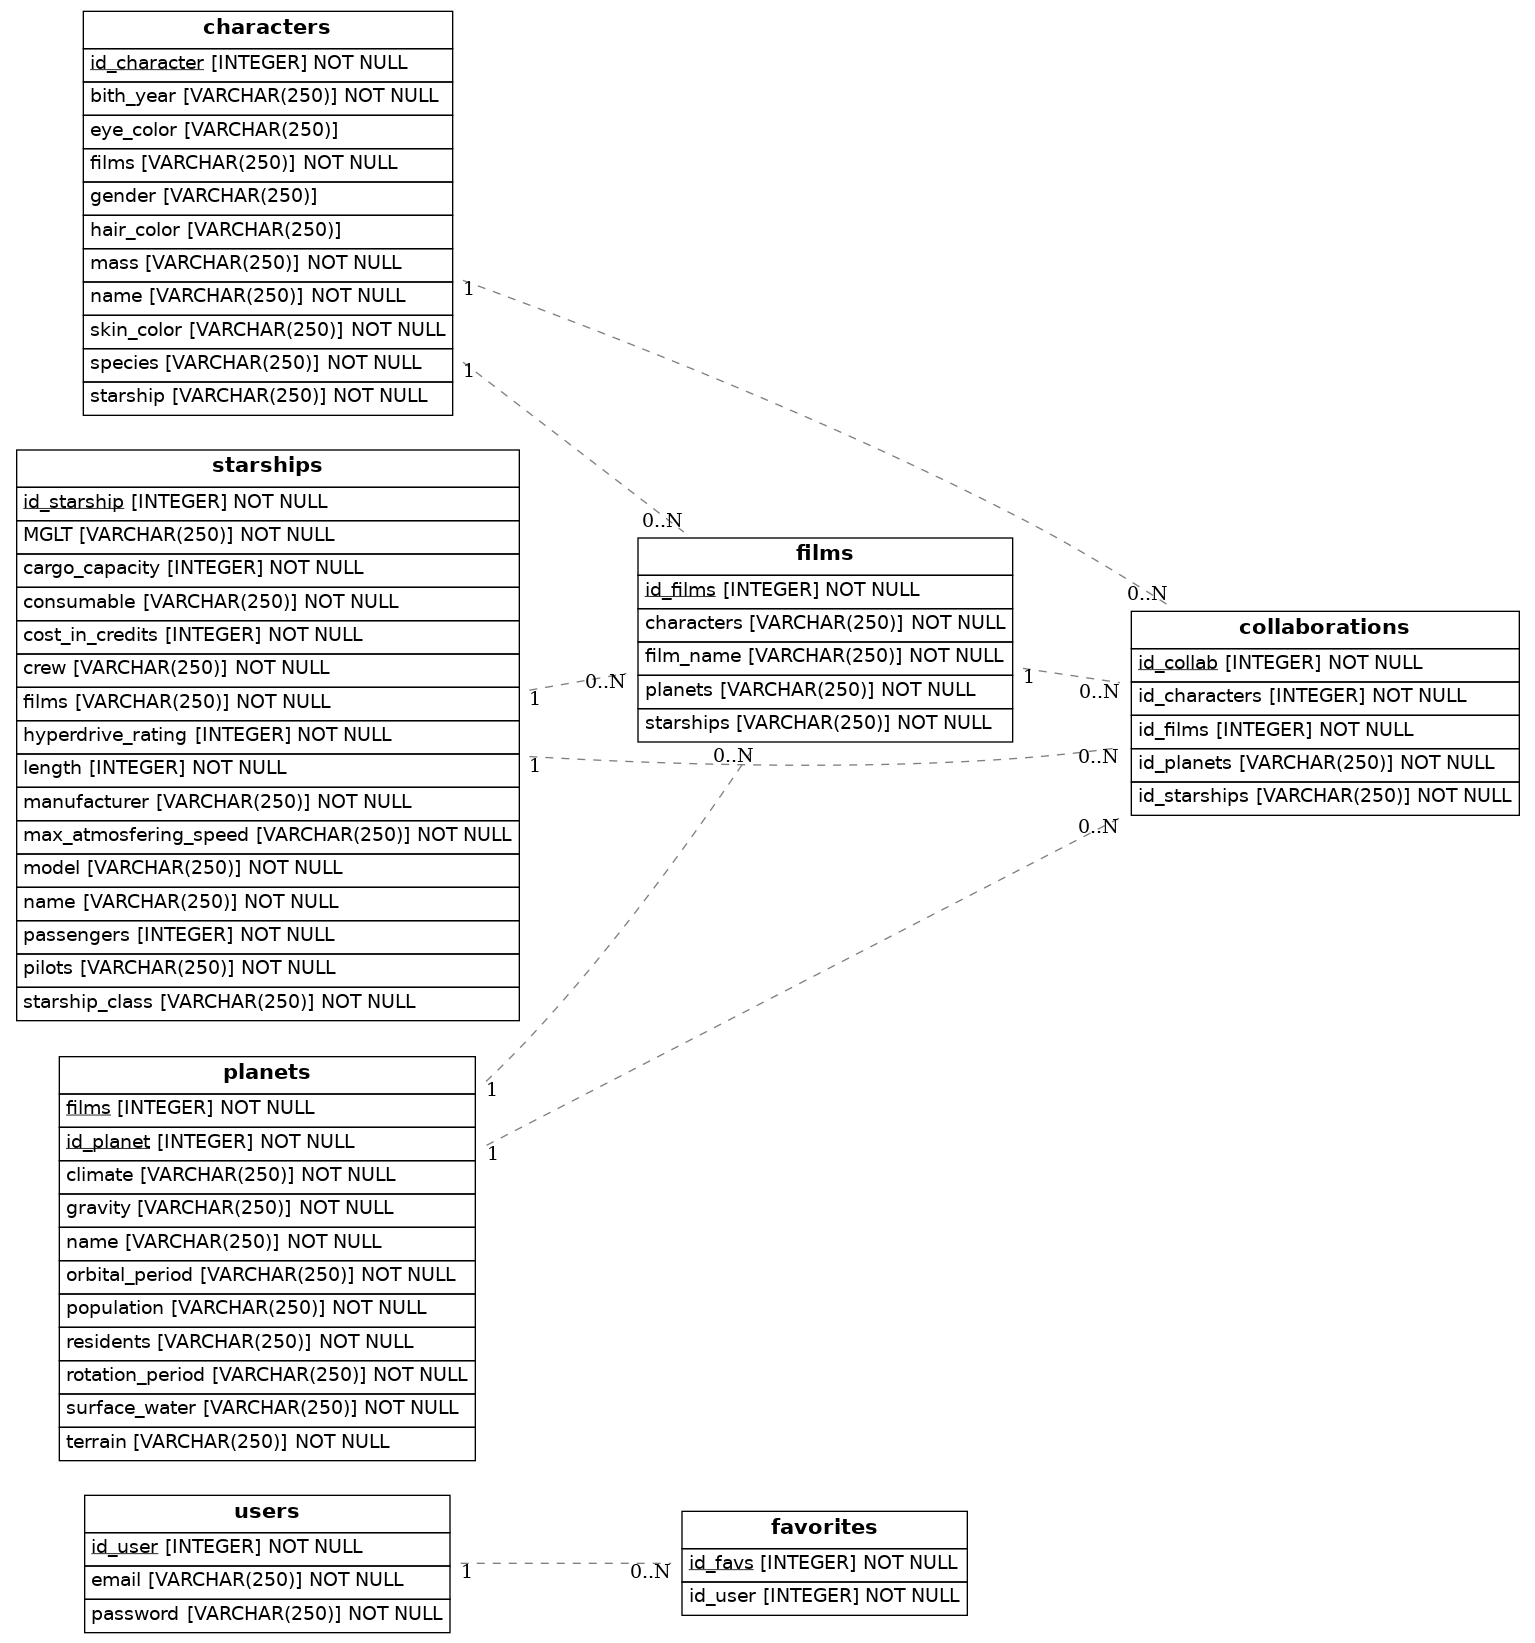
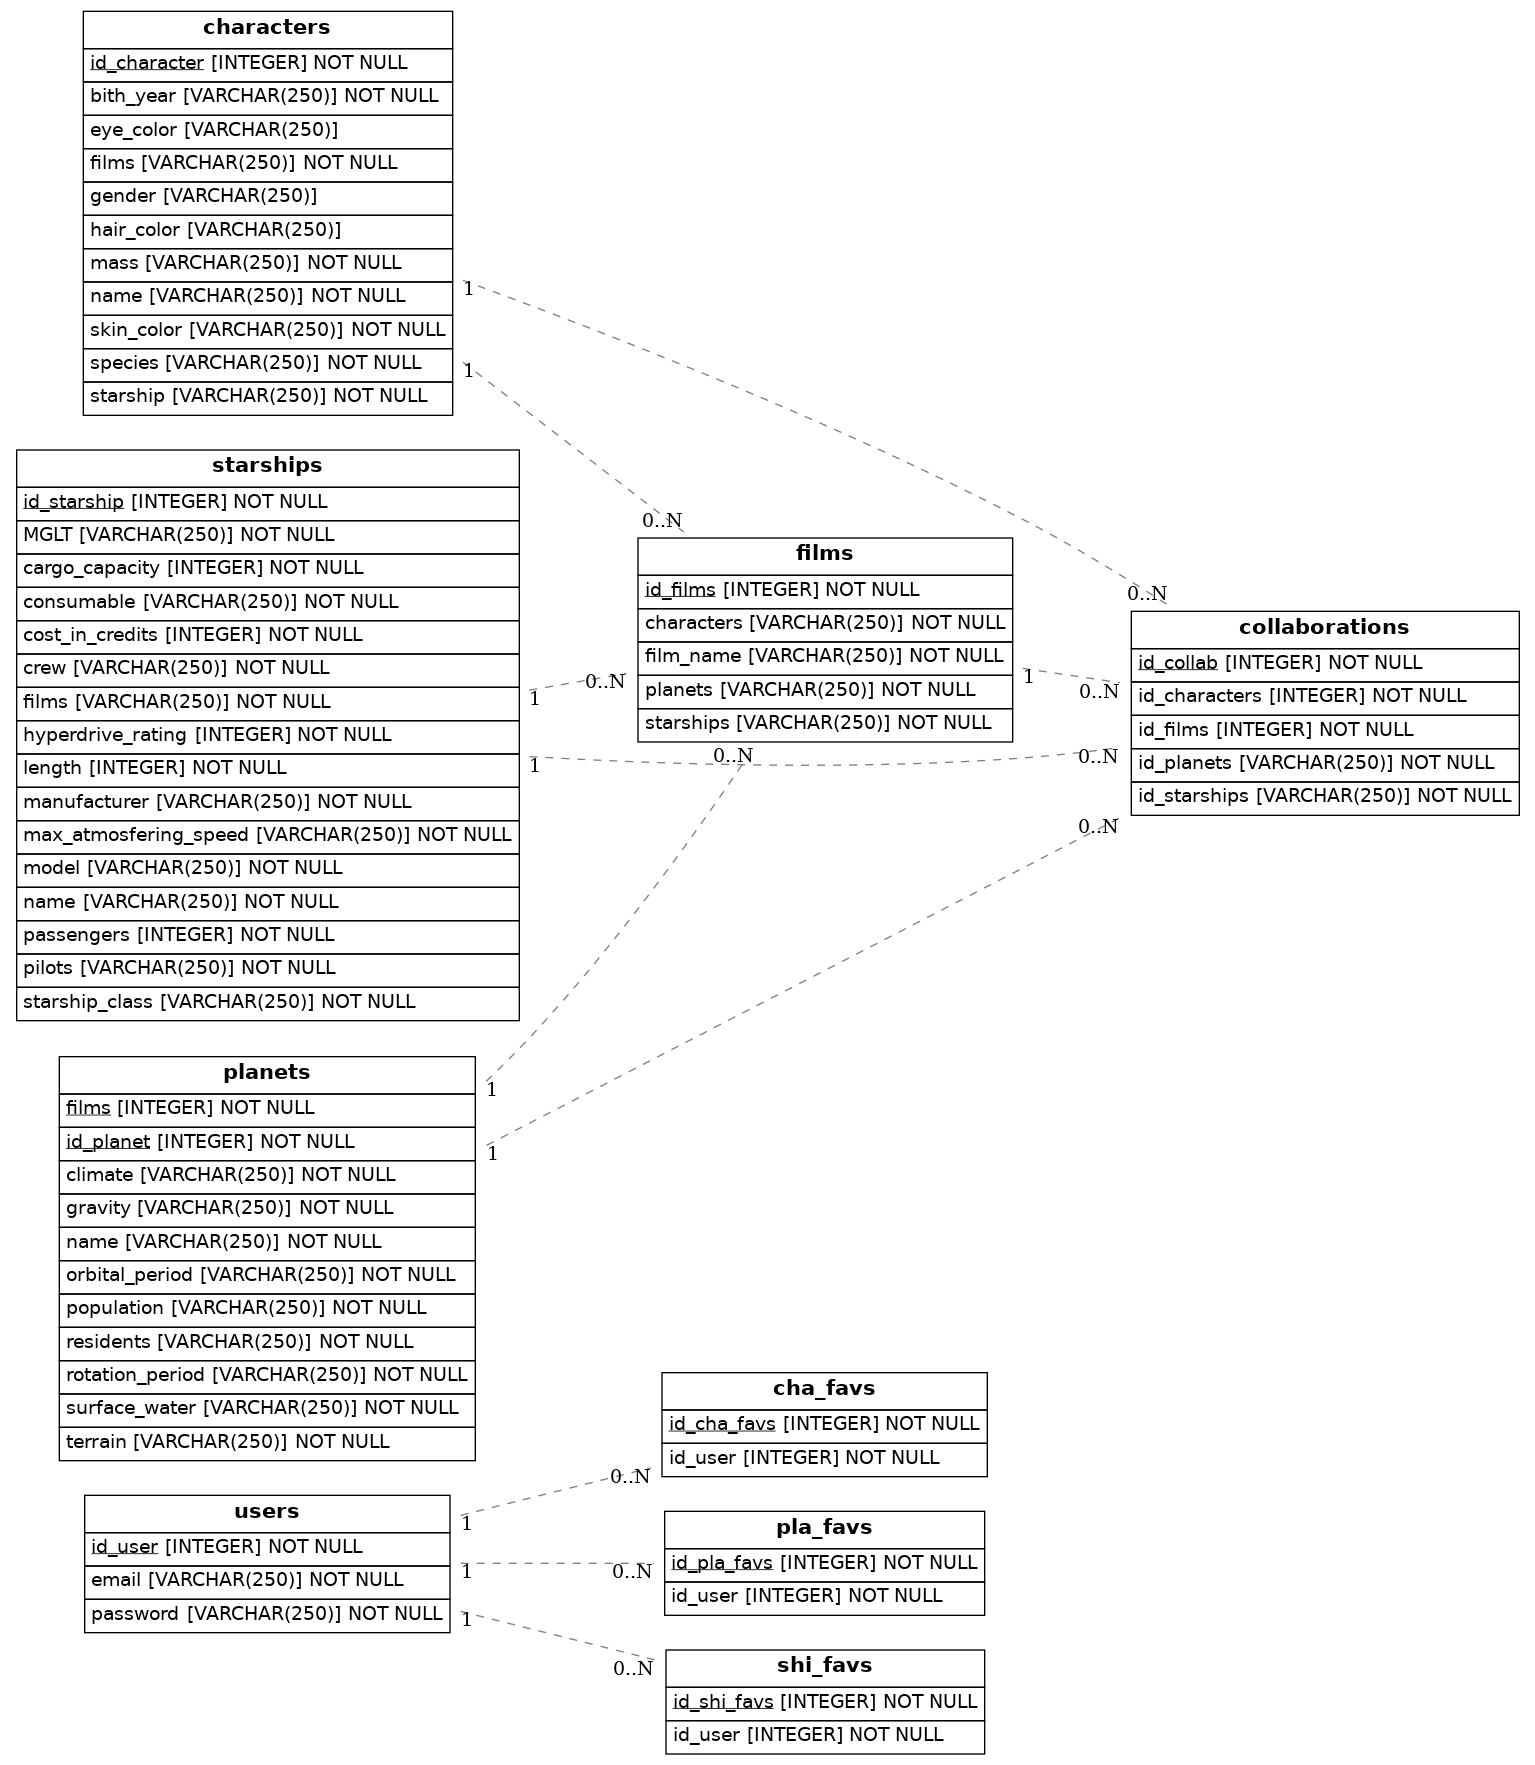
upload files

diff --git a/src/models.py b/src/models.py
@@ -64,11 +64,23 @@ class Planet(Base):
     surface_water = Column(String(250), nullable=False)
     terrain = Column(String(250), nullable=False)
 
-class Favorites(Base):
-    __tablename__ = 'favorites'
-    id_favs = Column(Integer(), primary_key=True)
+class Cha_Favs(Base):
+    __tablename__ = 'cha_favs'
+    id_cha_favs = Column(Integer(), primary_key=True)
+    id_user = Column(Integer(), ForeignKey("users.id_user"), nullable=False)
+    users = relationship(User)   
+
+class Pla_Favs(Base):
+    __tablename__ = 'pla_favs'
+    id_pla_favs = Column(Integer(), primary_key=True)
     id_user = Column(Integer(), ForeignKey("users.id_user"), nullable=False)
     users = relationship(User)
+
+class Shi_Favs(Base):
+    __tablename__ = 'shi_favs'
+    id_shi_favs = Column(Integer(), primary_key=True)
+    id_user = Column(Integer(), ForeignKey("users.id_user"), nullable=False)
+    users = relationship(User)    
 
 class Film(Base):
     __tablename__ = 'films'
